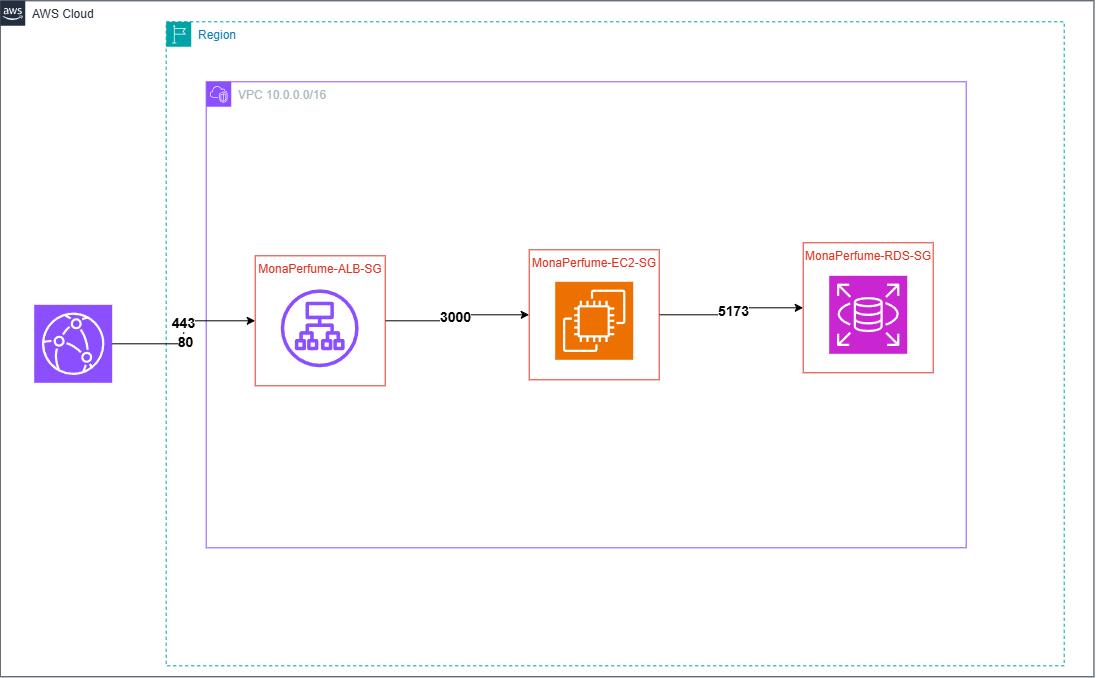
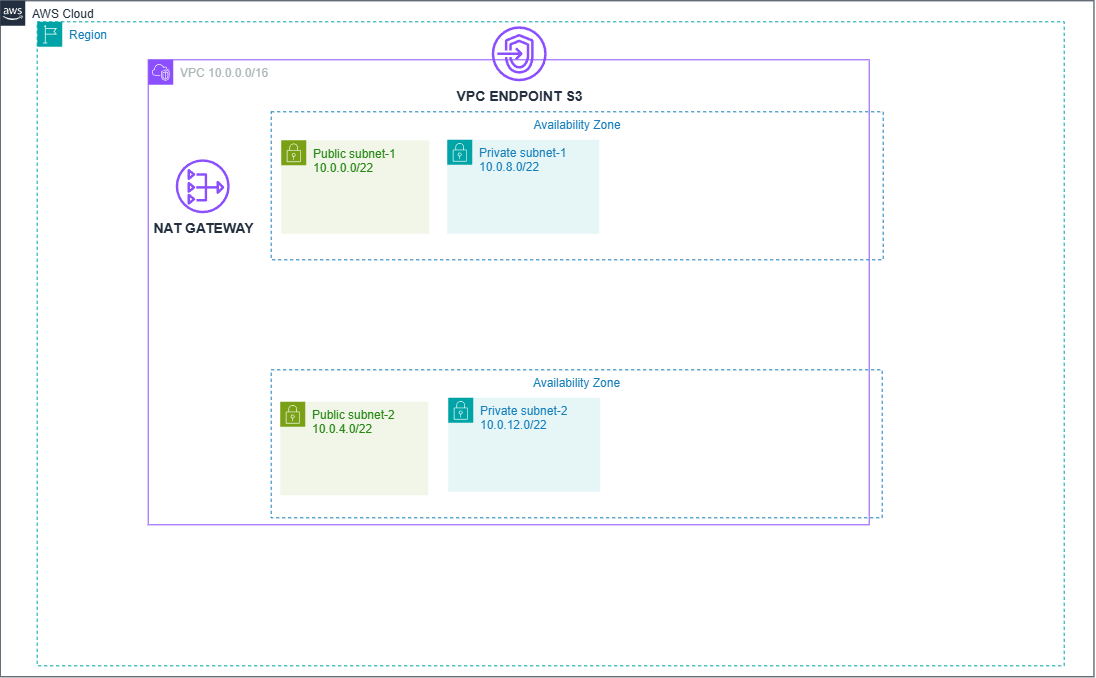
update

diff --git a/content/5-Workshop/5.3-vpc-and-more/_index.vi.md b/content/5-Workshop/5.3-vpc-and-more/_index.vi.md
@@ -4,7 +4,6 @@ date: 2026-07-26
 weight: 3
 chapter: false
 pre: " <b> 5.3. </b> "
-
 ---
 
 Trong phần này ta sẽ thiết lập VPC và các tài nguyên/ tính năng của nó
@@ -13,10 +12,12 @@ Trong phần này ta sẽ thiết lập VPC và các tài nguyên/ tính năng c
 
 ## Sơ đồ kiến trúc VPC
 
-![Kiến trúc VPC](/images/5-Workshop/5.3-vpc/VPC_ARCHI.png)
+![Kiến trúc VPC](/images/5-Workshop/5.3-vpc/vpc_archi1.png)
 
 ## Sơ đồ kiến trúc Security Group
+
 ![Security Group diagram](/images/5-Workshop/5.3-vpc/5.3.2-creat-sg/sg1.png)
+
 #### Nội dung
 
 - [Tạo VPC và các tài nguyên/ tính năng nằm trong dịch vụ](5.3.1-create-vpc-and-more/)
